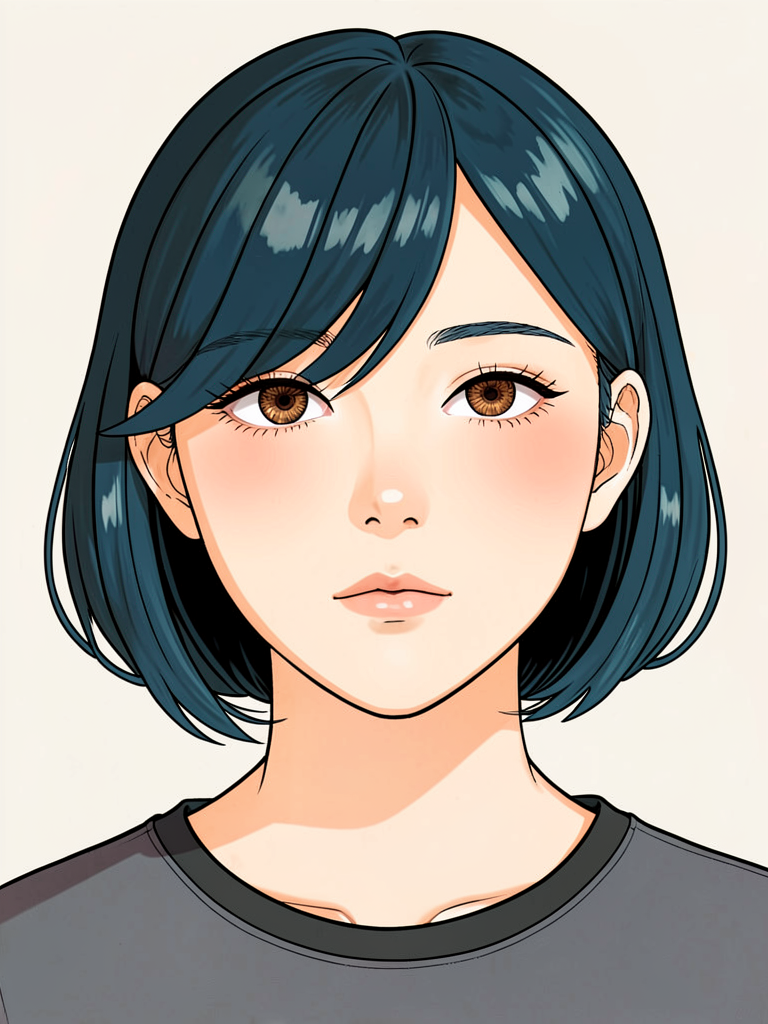
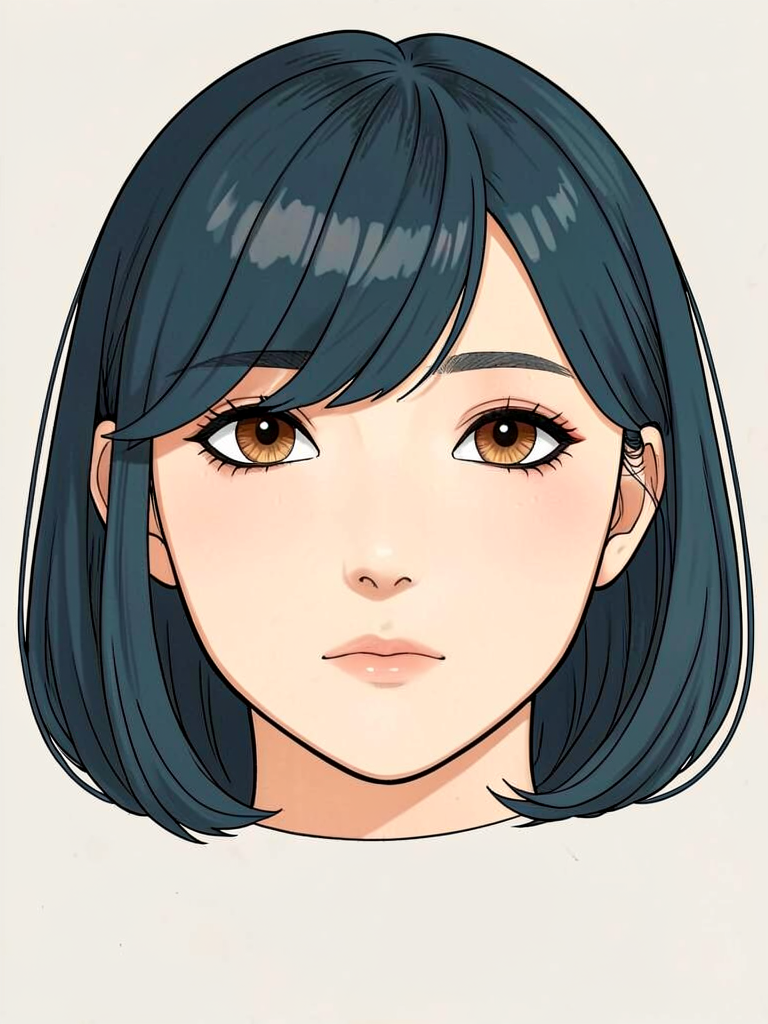
refactor: reset Mira face rotation anchors

diff --git a/docs/assets/part-07/chapter-05/p7_5_2_generate_fullbody_direction_references.py b/docs/assets/part-07/chapter-05/p7_5_2_generate_fullbody_direction_references.py
@@ -17,48 +17,46 @@ ROOT = Path("/home/cbsim/ws/AiBook/docs/assets/part-07/chapter-05")
 MODEL_ID = "black-forest-labs/FLUX.2-klein-4B"
 FRONT_BODY = ROOT / "p7-5-2-fullbody-front-reference.png"
 BASE_OUTFIT_COMPONENTS = [
-    ROOT / "p7-5-2-prop-reference-v2-gray-cropped-top.png",
+    ROOT / "p7-5-2-outfit-crop-top-waist-reference.png",
     ROOT / "p7-5-2-prop-reference-v2-trousers.png",
     ROOT / "p7-5-2-prop-reference-v2-shoes.png",
 ]
 VIEW_SPECS = {
-    "left_front_quarter": (ROOT / "p7-5-2-face-left-front-quarter-v2.png", 62411),
-    "right_front_quarter": (ROOT / "p7-5-2-face-right-front-quarter-v2.png", 62412),
-    "profile_left": (ROOT / "p7-5-2-face-profile-left-v2.png", 62403),
-    "profile_right": (ROOT / "p7-5-2-face-profile-right-v2.png", 62404),
-    "rear": (ROOT / "p7-5-2-face-rear-v2.png", 62405),
+    "left_front_quarter": (ROOT / "p7-5-2-face-left-front-quarter-v3.png", 62411),
+    "right_front_quarter": (ROOT / "p7-5-2-face-right-front-quarter-v3.png", 62412),
+    "profile_left": (ROOT / "p7-5-2-face-profile-left-v3.png", 62403),
+    "profile_right": (ROOT / "p7-5-2-face-profile-right-v3.png", 62404),
+    "rear": (ROOT / "p7-5-2-face-rear-v3.png", 62405),
 }
-TORSO_COMMON_PROMPT = (
-    "Upper-body directional reference of the same woman on an off-white studio background. "
-    "Use the directional face reference as the only image reference for identity, head direction, clean ink outlines, watercolor fills, and flat illustrated rendering. "
-    "Do not use photorealistic skin, lighting, or texture. "
-    "Frame her from the crown to the upper thighs."
+PROPORTION_CONTRACT = (
+    "Match the frontal full-body reference at approximately 7.5 head heights: keep the head length, shoulder width, "
+    "torso length, natural waist, hip line, crotch level, knee level, lower-leg length, foot scale, and full hair-to-sole framing consistent."
 )
-FULLBODY_COMMON_PROMPT = (
-    "Full-body directional reference of the same woman on an off-white studio background. "
-    "Use the torso reference for face, hair, neck, shoulder, upper-body direction, and body continuity. "
-    "Preserve its clean ink outlines, watercolor fills, and flat illustrated rendering. "
-    "Extend the figure to a neutral standing full body from hair to soles."
+ROTATION_COMMON_PROMPT = (
+    "Rotated full-body reference of the same woman on an off-white studio background. "
+    "Use the frontal full-body reference as the complete body anchor for identity, 7.5-head-height proportion, pose, clothing silhouette, and full hair-to-sole framing. "
+    "Use the directional face reference only for head direction, facial identity, and hair orientation. "
+    "Render the same neutral standing full body from hair to soles with clean ink outlines, watercolor fills, and flat illustrated rendering."
 )
 PROPORTION_COMMON_PROMPT = (
     "Proportion-calibrated full-body directional reference of the same woman on an off-white studio background. "
     "Use the generated full-body reference for identity, body direction, and pose. "
-    "Use the frontal full-body reference to match its 165 cm, 55 kg, approximately 7.5-head-height figure: head-to-body ratio, shoulder width, torso length, hip placement, leg length, and foot scale. "
+    "Use the frontal full-body reference to match its 165 cm and 55 kg figure. "
+    f"{PROPORTION_CONTRACT} "
     "Do not change the body direction or pose."
 )
 OUTFIT_COMMON_PROMPT = (
     "Outfit-unified full-body directional reference of the same woman on an off-white studio background. "
-    "Use the proportion-calibrated full-body reference only for identity, body direction, pose, and body proportions; do not copy its clothing. "
-    "Use the frontal full-body reference for overall proportion. Use the gray cropped-top, trousers, and shoes references "
-    "as the only source for the complete outfit and garment construction. Replace every garment from the generated full-body reference. "
-    "Wear only the charcoal-gray cropped crew-neck top, deep teal-blue wide-leg trousers, and matching white lace-up low-top sneakers. "
-    "No jacket, bag, strap, or other accessory. "
+    "Use the proportion-calibrated full-body reference for identity, body direction, pose, and body proportions. "
+    "Use the frontal full-body reference for overall proportion. Use the approved crop-top-waist relation, trousers, and shoes references "
+    "for the complete outfit and garment construction. Render a charcoal-gray regular-fit short-sleeve micro-crop crew-neck top, "
+    "a visible bare-midriff gap, deep teal-blue high-waisted wide-leg trousers, and matching white lace-up low-top sneakers. "
+    f"{PROPORTION_CONTRACT} "
     "Keep the body direction and neutral standing pose, complete from hair to soles."
 )
 COMMON_CONSTRAINTS = "No extra person, text, or border."
 FOOTWEAR_CONTRACT = (
-    "Both feet must be fully visible in the matching pair of lace-up white low-top sneakers from the shoe reference. "
-    "No sandals, boots, bare feet, cropped feet, mismatched shoes, or altered shoe design."
+    "Both feet are fully visible in the matching pair of lace-up white low-top sneakers from the shoe reference."
 )
 DIRECTION_RULES = {
     "left_front_quarter": "Show head, shoulders, torso, hips, knees, and feet together in a left-front-three-quarter view.",
@@ -71,19 +69,16 @@ DIRECTION_RULES = {
 
 def stage_output(stage: str, view: str) -> Path:
     names = {
-        "torso": f"p7-5-2-fullbody-torso-v1-{view}-candidate.png",
-        "fullbody": f"p7-5-2-fullbody-base-v1-{view}-candidate.png",
-        "proportion": f"p7-5-2-fullbody-proportion-v1-{view}-candidate.png",
-        "outfit": f"p7-5-2-fullbody-reference-v8-{view}-candidate.png",
+        "rotation": f"p7-5-2-fullbody-rotation-v1-{view}-candidate.png",
+        "proportion": f"p7-5-2-fullbody-proportion-v3-{view}-candidate.png",
+        "outfit": f"p7-5-2-fullbody-reference-v10-{view}-candidate.png",
     }
     return ROOT / names[stage]
 
 
 def prompt_for(stage: str, view: str) -> str:
-    if stage == "torso":
-        return f"{TORSO_COMMON_PROMPT} {DIRECTION_RULES[view]} {COMMON_CONSTRAINTS}"
-    if stage == "fullbody":
-        return f"{FULLBODY_COMMON_PROMPT} {DIRECTION_RULES[view]} {COMMON_CONSTRAINTS}"
+    if stage == "rotation":
+        return f"{ROTATION_COMMON_PROMPT} {DIRECTION_RULES[view]} {COMMON_CONSTRAINTS}"
     if stage == "proportion":
         return f"{PROPORTION_COMMON_PROMPT} {DIRECTION_RULES[view]} {COMMON_CONSTRAINTS}"
     return f"{OUTFIT_COMMON_PROMPT} {DIRECTION_RULES[view]} {FOOTWEAR_CONTRACT} {COMMON_CONSTRAINTS}"
@@ -91,12 +86,10 @@ def prompt_for(stage: str, view: str) -> str:
 
 def stage_references(stage: str, view: str) -> list[Path]:
     face, _ = VIEW_SPECS[view]
-    if stage == "torso":
-        return [face]
-    if stage == "fullbody":
-        return [stage_output("torso", view)]
+    if stage == "rotation":
+        return [FRONT_BODY, face]
     if stage == "proportion":
-        return [stage_output("fullbody", view), FRONT_BODY]
+        return [stage_output("rotation", view), FRONT_BODY]
     return [stage_output("proportion", view), FRONT_BODY, *BASE_OUTFIT_COMPONENTS]
 
 
@@ -113,7 +106,7 @@ def render(
         image=[Image.open(path).convert("RGB") for path in references],
         prompt=prompt_for(stage, view),
         width=768,
-        height=1024 if stage == "torso" else 1280,
+        height=1280,
         num_inference_steps=12,
         guidance_scale=1.0,
         generator=torch.Generator(device="cpu").manual_seed(seed),
@@ -154,27 +147,27 @@ def main() -> None:
     for view in args.views:
         _, seed = VIEW_SPECS[view]
         for stage, stage_seed in (
-            ("torso", seed),
-            ("fullbody", seed + 1000),
-            ("proportion", seed + 2000),
-            ("outfit", seed + 3000),
+            ("rotation", seed),
+            ("proportion", seed + 1000),
+            ("outfit", seed + 2000),
         ):
             run = render(pipe, stage=stage, view=view, seed=stage_seed)
             run["view"] = view
             runs.append(run)
 
-    report = ROOT / "p7-5-2-fullbody-direction-v8-review.json"
+    report = ROOT / "p7-5-2-fullbody-direction-v10-review.json"
     report.write_text(
         json.dumps(
             {
                 "status": "review_required",
                 "requested_views": args.views,
                 "sequence": [
-                    "face_to_torso",
-                    "torso_to_fullbody",
-                    "fullbody_to_proportion_calibrated",
+                    "front_body_and_directional_face_to_rotated_body",
+                    "rotated_body_to_proportion_calibrated",
                     "proportion_calibrated_to_outfit_unified",
                 ],
+                "proportion_contract": PROPORTION_CONTRACT,
+                "review_focus": "Compare every final output with the approved front body for 7.5-head height, shoulder, waist, hip, knee, foot, and full-frame consistency.",
                 "model": MODEL_ID,
                 "runs": runs,
                 "decision": "All intermediates and final outputs are candidates; human review is required before a final output becomes a reference asset.",

diff --git a/docs/assets/part-07/chapter-05/p7_5_2_generate_face_direction_references.py b/docs/assets/part-07/chapter-05/p7_5_2_generate_face_direction_references.py
@@ -1,5 +1,5 @@
 #!/usr/bin/env python3
-"""Generate head-and-neck rotation candidates from the current frontal-face candidate."""
+"""Generate head-only rotation candidates from the approved frontal face."""
 
 from __future__ import annotations
 
@@ -15,14 +15,15 @@ from PIL import Image
 
 ROOT = Path("/home/cbsim/ws/AiBook/docs/assets/part-07/chapter-05")
 FRONT = ROOT / "p7-5-2-face-front-v2.png"
-CROPPED_TOP = ROOT / "p7-5-2-face-neckline-gray-top-reference.png"
 MODEL_ID = "black-forest-labs/FLUX.2-klein-4B"
-REPORT = ROOT / "p7-5-2-face-rotation-from-front-v2-review.json"
+REPORT = ROOT / "p7-5-2-face-rotation-from-front-v3-review.json"
+HEAD_INPUT_BOTTOM = 720
 COMMON_PROMPT = (
-    "Head-and-neck rotation reference of the same woman on off-white. "
-    "Use the frontal face reference for identity and hair; use the gray cropped-top reference only for a narrow charcoal-gray crew-neckline arc. "
+    "Tight head-only rotation reference of the same woman on off-white. "
+    "Use the frontal face reference for identity and hair. "
     "Keep broad low-set cheekbones, visibly soft cheek fullness, and almond cat eyes with subtly upturned outer corners. "
-    "A tight crop runs from hair top through the lower neck, with the neckline arc touching the bottom edge."
+    "Keep the exact deep teal-blue jaw-length rounded bob: deep viewer-right part, broad fringe sweeping across the viewer-left forehead, tapered jaw locks, and short rounded nape. "
+    "The image contains the full hair mass, face, jaw, and chin only; its lower edge ends directly beneath the chin."
 )
 COMMON_CONSTRAINTS = "Neutral expression."
 VIEW_SPECS = {
@@ -59,7 +60,11 @@ def main() -> None:
         help="Directional face views to generate. Omit to generate every rotation from the same frontal anchor in one loaded pipeline.",
     )
     args = parser.parse_args()
-    if missing := [path.name for path in (FRONT, CROPPED_TOP) if not path.is_file()]:
+    if not FRONT.is_file():
+        missing = [FRONT.name]
+    else:
+        missing = []
+    if missing:
         raise FileNotFoundError(", ".join(missing))
     if not torch.cuda.is_available():
         raise RuntimeError("CUDA is required")
@@ -71,16 +76,16 @@ def main() -> None:
     )
     pipe.enable_sequential_cpu_offload()
     pipe.set_progress_bar_config(disable=True)
-    face = Image.open(FRONT).convert("RGB")
-    cropped_top = Image.open(CROPPED_TOP).convert("RGB")
+    source_face = Image.open(FRONT).convert("RGB")
+    face = source_face.crop((0, 0, source_face.width, HEAD_INPUT_BOTTOM))
     runs = []
     for view_id in args.views:
         name, seed = VIEW_SPECS[view_id]
         started = time.monotonic()
         prompt = build_prompt(view_id)
-        output = ROOT / f"p7-5-2-face-rotation-v2-{name}-candidate.png"
+        output = ROOT / f"p7-5-2-face-rotation-v3-{name}-candidate.png"
         image = pipe(
-            image=[face, cropped_top],
+            image=[face],
             prompt=prompt,
             width=768,
             height=768,
@@ -102,10 +107,11 @@ def main() -> None:
         json.dumps(
             {
                 "status": "review_required",
-                "purpose": "Create compact-prompt directional face candidates from the current frontal-face candidate.",
-                "inputs": [FRONT.name, CROPPED_TOP.name],
+                "purpose": "Create chin-cropped directional face candidates from the approved frontal face.",
+                "inputs": [FRONT.name],
+                "input_transform": f"The frontal anchor is cropped at y={HEAD_INPUT_BOTTOM} before inference, removing the neck and clothing below the chin.",
                 "requested_views": args.views,
-                "shared_pipeline": "All requested rotations reuse one loaded pipeline, the same frontal-face candidate, and the same cropped-top prop reference; the frontal candidate itself is not regenerated in this script.",
+                "shared_pipeline": "All requested rotations reuse one loaded pipeline and the same frontal-face anchor; the frontal face is not regenerated in this script.",
                 "model": MODEL_ID,
                 "runs": runs,
                 "decision": "Review each view before replacing a directional reference.",

diff --git a/docs/assets/part-07/chapter-05/p7_5_2_generate_face_front_reference.py b/docs/assets/part-07/chapter-05/p7_5_2_generate_face_front_reference.py
@@ -1,5 +1,5 @@
 #!/usr/bin/env python3
-"""Generate a Mira front-face candidate with a cropped-top neckline reference."""
+"""Generate a chin-cropped Mira front-face candidate."""
 
 from __future__ import annotations
 
@@ -8,20 +8,16 @@ from pathlib import Path
 
 import torch
 from diffusers import Flux2KleinPipeline
-from PIL import Image
 
 
 ROOT = Path("/home/cbsim/ws/AiBook/docs/assets/part-07/chapter-05")
-OUTPUT = ROOT / "p7-5-2-face-front-no-accessory-v3-candidate.png"
+OUTPUT = ROOT / "p7-5-2-face-front-chin-crop-v4-candidate.png"
 MODEL_ID = "black-forest-labs/FLUX.2-klein-4B"
-CROPPED_TOP = ROOT / "p7-5-2-face-neckline-gray-top-reference.png"
 
-PROMPT = """Original adult Korean webtoon woman, strict front head-and-neck portrait on off-white paper. A tight crop runs from hair top through the lower neck, with a narrow charcoal-gray crew-neckline arc touching the bottom edge. Oval face with warm light-peach skin, broad low-set cheekbones, visibly soft cheek fullness, and a smooth taper into a soft jaw. Slightly higher straight nose bridge and a defined nose tip; calm neutral expression. Equal almond cat eyes with subtly upturned outer corners, two-color irises of chestnut brown and amber blended in a subtle radial wave pattern, dark limbal rings, and centered black pupils. Deep teal blue hair in a rounded jaw-length bob: a deep viewer-right side part, one broad fringe sweeping across to the viewer-left forehead, and tapered side locks at the jaw. Use the gray cropped-top reference only for the charcoal-gray crew-neckline arc."""
+PROMPT = """Original adult Korean webtoon woman, strict front head-only portrait on off-white paper. The image contains the full hair mass, face, jaw, and chin only; its lower edge ends directly beneath the chin. Oval face with warm light-peach skin, broad low-set cheekbones, visibly soft cheek fullness, and a smooth taper into a soft jaw. Slightly higher straight nose bridge and a defined nose tip; calm neutral expression. Equal almond cat eyes with subtly upturned outer corners, two-color irises of chestnut brown and amber blended in a subtle radial wave pattern, dark limbal rings, and centered black pupils. Deep teal-blue hair in a rounded jaw-length bob: a deep viewer-right side part, one broad fringe sweeping across to the viewer-left forehead, and tapered side locks at the jaw."""
 
 
 def main() -> None:
-    if not CROPPED_TOP.is_file():
-        raise FileNotFoundError(CROPPED_TOP.name)
     if not torch.cuda.is_available():
         raise RuntimeError("CUDA is required")
 
@@ -35,7 +31,6 @@ def main() -> None:
 
     started = time.monotonic()
     image = pipe(
-        image=[Image.open(CROPPED_TOP).convert("RGB")],
         prompt=PROMPT,
         width=768,
         height=1024,

diff --git a/management/release-notes/sections/part-07/P7-5.2.md b/management/release-notes/sections/part-07/P7-5.2.md
@@ -5,6 +5,8 @@
 
 ### v2026.08.05
 
+- 정면 얼굴 기준을 턱 아래에서 끝나는 두상 전용 출력으로 교체해 사람 승인했다. 목선 소품 입력과 목·어깨 구도를 제거하고, 넓고 낮은 광대·볼살·고양이 눈매·두 색 홍채·딥틸블루 단발 계약을 prompt-only로 유지했다.
+- V2 좌우 쿼터·좌우 측면·후면 얼굴 기준과 이전 승인 기록을 폐기했다. 회전 중 단발의 가르마·앞머리·길이가 바뀌는 결함을 피하기 위해, V3는 턱 종료 정면 얼굴 한 장만을 입력으로 사용하고 머리 전체·얼굴·턱만 그리는 계약으로 재구성했다. V3 후보는 새 사람 검수 전까지 방향 전신의 입력으로 사용하지 않는다.
 - 단일 회색 크롭탑 파일을 얼굴 목선 기준으로 이름과 승인 범위를 정리하고, 일반 핏 마이크로 크롭탑의 밑단·허리선은 별도 착장 관계 기준으로 분리했다. 얼굴 생성기는 목선 기준만 사용하고, 정면·방향 전신 생성기는 착장 관계 기준만 사용한다.
 - 일반 핏 회색 마이크로 크롭탑과 딥틸블루 하이웨이스트 바지의 착장 관계 상세컷을 사람 승인했다. 이 기준은 짧은 밑단·노출된 복부 간격·바지 허리선까지만 승인하며, 얼굴·손·전신 identity를 승인하지 않는다. 정면 전신 후보 생성은 이 새 관계 기준을 복장 입력으로 사용하고, 후보용 검수 JSON을 기존 승인 정면 전신 검수 기록과 분리한다.
 - 회색 크롭탑 목선을 소품 참조로 사용해 새 정면 얼굴과 좌우 쿼터·좌우 측면·후면 얼굴을 사람 승인했다. V2 얼굴 기준은 넓고 낮은 광대, 더 분명한 볼살, 고양이 눈매의 위로 향한 눈꼬리, 밤갈색·호박색 홍채, 딥틸블루 단발을 승인 범위로 기록하며 후면의 귀 끝 일부 노출을 허용한다.
